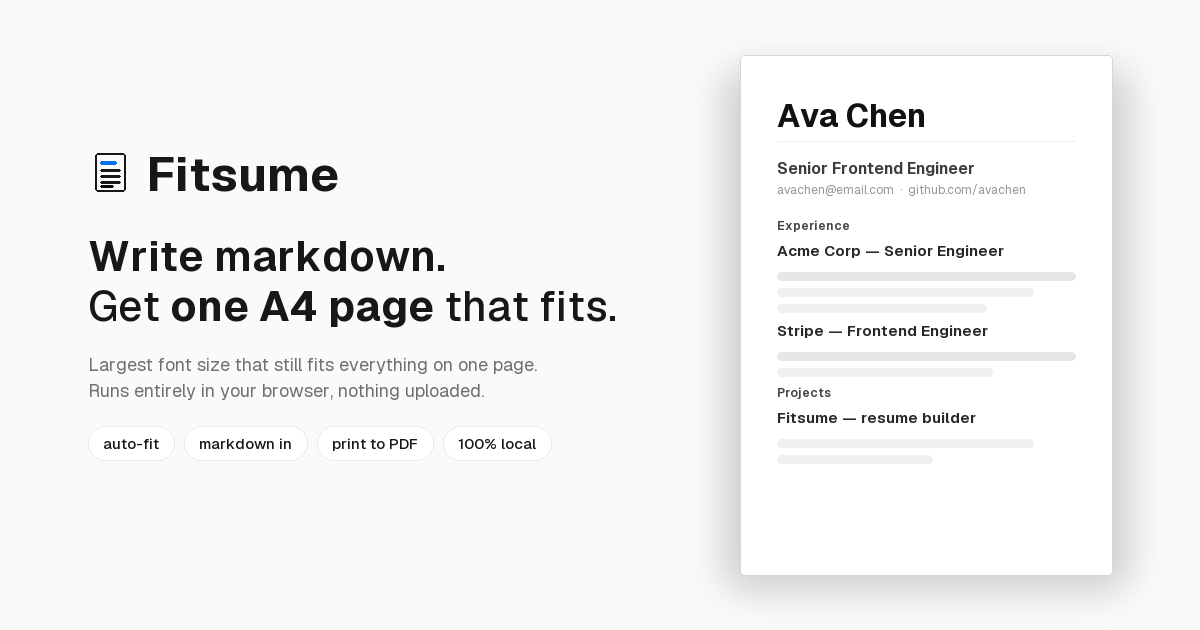
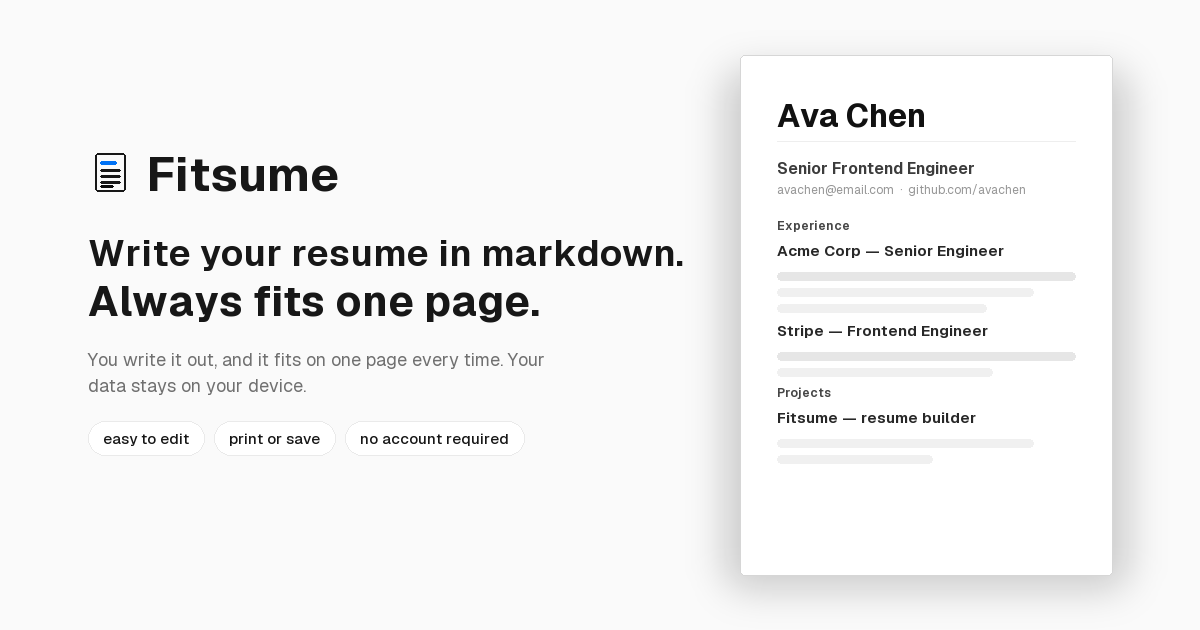
docs: simplify link preview copy to plain language

Changed region(s): [[0.0617, 0.3619, 0.5858, 0.6333], [0.0617, 0.6937, 0.4625, 0.7238]]

diff --git a/index.html b/index.html
@@ -6,7 +6,7 @@
     <link rel="icon" type="image/svg+xml" href="/favicon.svg" />
     <meta
       name="description"
-      content="Auto-fit resume builder. Write markdown, get a resume that fills exactly one A4 page. Everything stays in your browser."
+      content="Write your resume in markdown and it always fits on one page. Your data stays on your device, no account required."
     />
     <title>Fitsume</title>
 
@@ -16,25 +16,25 @@
     <meta property="og:url" content="https://fitsume.fajarwz.com" />
     <meta
       property="og:title"
-      content="Fitsume — Write markdown. Get one A4 page that just fits."
+      content="Fitsume — Write your resume in markdown. Always fits one page."
     />
     <meta
       property="og:description"
-      content="Auto-fit resume builder. Write markdown, get a resume that fills exactly one A4 page. No server, no account, nothing leaves your browser."
+      content="Write your resume in markdown and it always fits on one page. Your data stays on your device, no account required."
     />
     <meta property="og:image" content="https://fitsume.fajarwz.com/og-image.png" />
     <meta property="og:image:width" content="1200" />
     <meta property="og:image:height" content="630" />
-    <meta property="og:image:alt" content="Fitsume: markdown in, one A4 resume page out." />
+    <meta property="og:image:alt" content="Fitsume: write your resume in markdown, it always fits one page." />
 
     <meta name="twitter:card" content="summary_large_image" />
     <meta
       name="twitter:title"
-      content="Fitsume — Write markdown. Get one A4 page that just fits."
+      content="Fitsume — Write your resume in markdown. Always fits one page."
     />
     <meta
       name="twitter:description"
-      content="Auto-fit resume builder. Write markdown, get a resume that fills exactly one A4 page. No server, no account, nothing leaves your browser."
+      content="Write your resume in markdown and it always fits on one page. Your data stays on your device, no account required."
     />
     <meta name="twitter:image" content="https://fitsume.fajarwz.com/og-image.png" />
 
